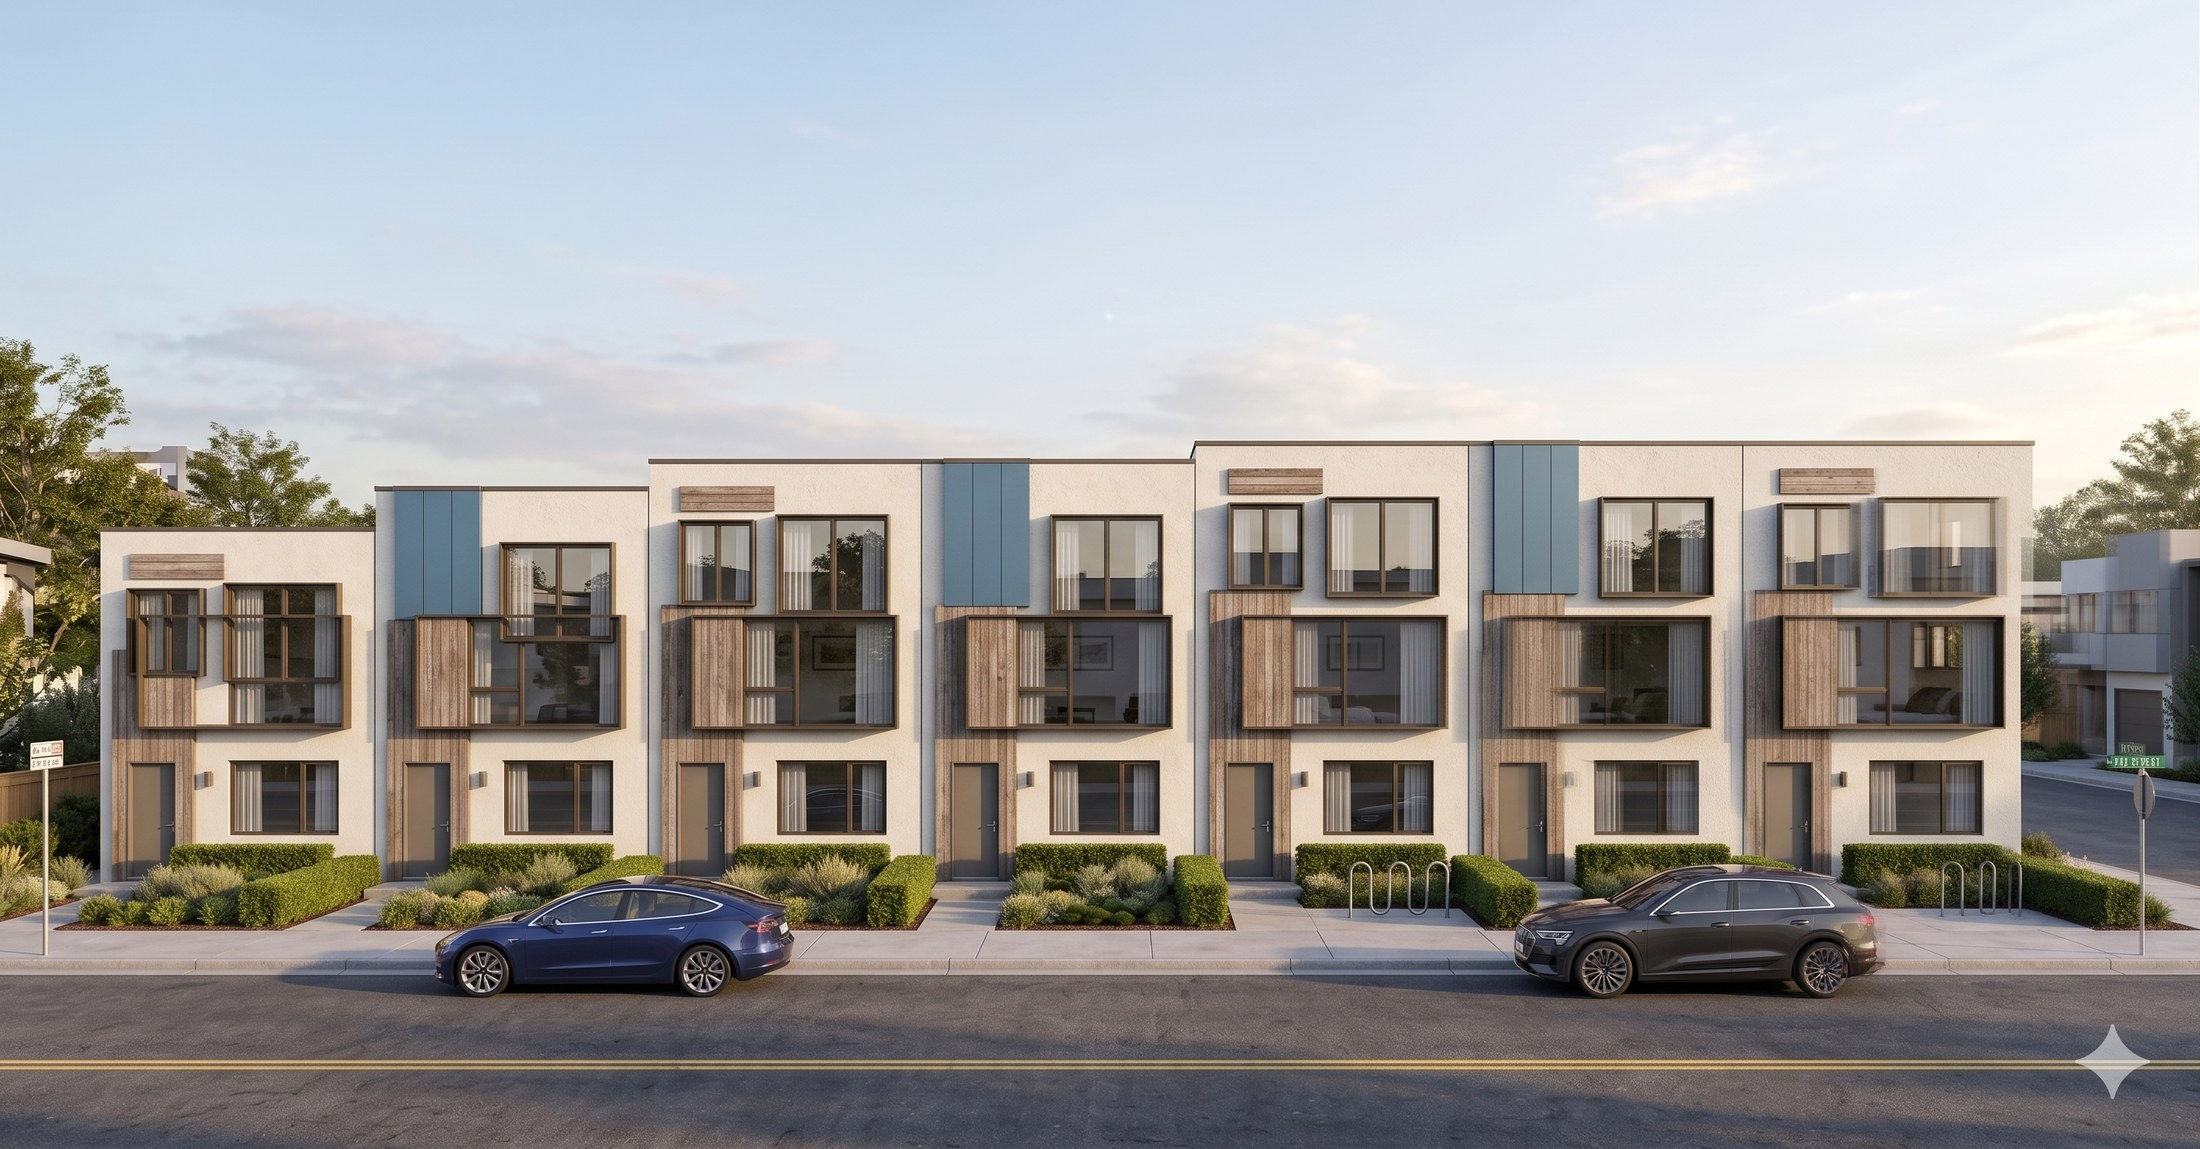
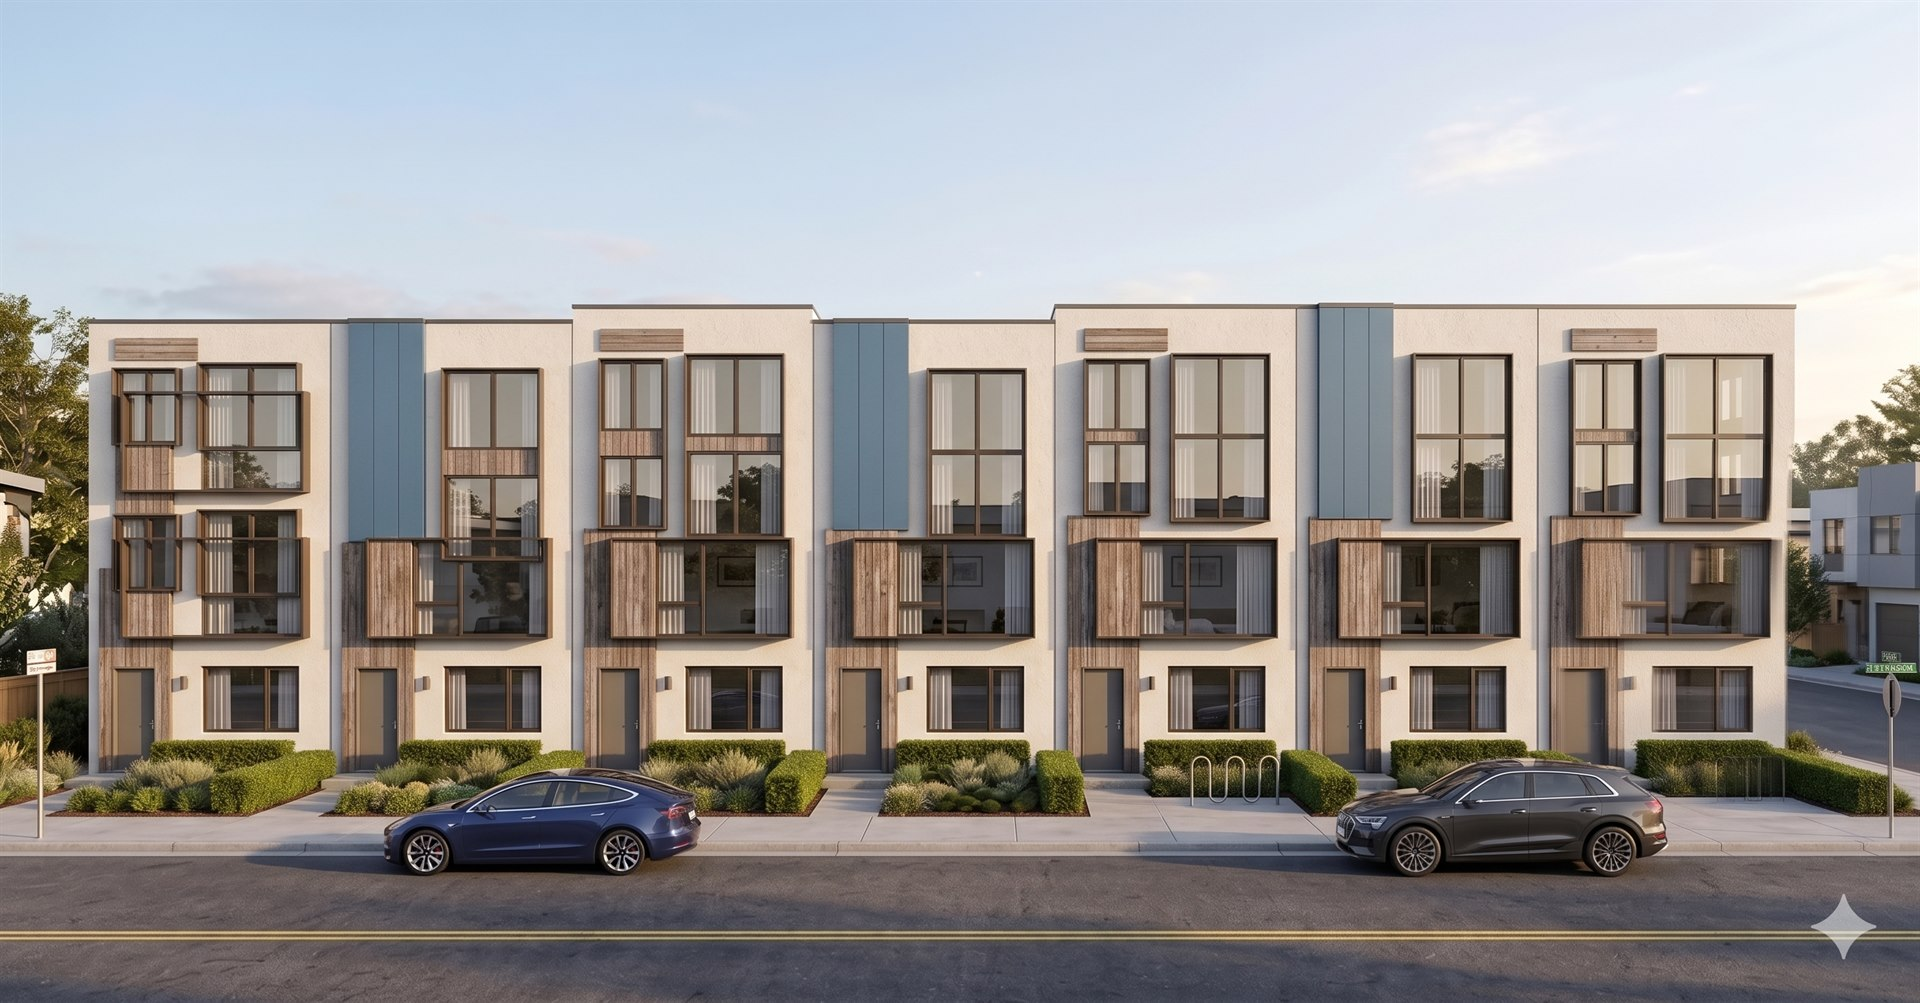
New daytime cover rendering; present as 10 detached homes throughout (ADUs as feature, not unit count)

diff --git a/index.html b/index.html
@@ -4,7 +4,7 @@
 <meta charset="utf-8" />
 <meta name="viewport" content="width=device-width, initial-scale=1.0" />
 <title>6540 N Shoup Avenue, West Hills — Offering Memorandum</title>
-<meta name="description" content="6540 N Shoup Avenue, West Hills. SB 1123 ministerial small-lot subdivision — 10 detached three-story homes plus 5 attached ADUs (15 units) on 20,909 SF. Architectural set in PZA review. $2,000,000. LAAA Team at Marcus & Millichap." />
+<meta name="description" content="6540 N Shoup Avenue, West Hills. SB 1123 ministerial small-lot subdivision — 10 detached three-story homes (five with attached ADUs) on 20,909 SF. Architectural set in PZA review. $2,000,000. LAAA Team at Marcus & Millichap." />
 <meta property="og:title" content="6540 N Shoup Avenue — SB 1123 10-Home Small-Lot Subdivision" />
 <meta property="og:description" content="10 detached homes + 5 ADUs on a 20,909 SF West Hills parcel. SB 1123 ministerial pathway, plans in PZA review. $2.0M. Marketed by Glen Scher and Filip Niculete." />
 <meta property="og:image" content="images/cover.jpg" />
@@ -196,7 +196,7 @@
                   color: rgba(255,255,255,0.92); background: var(--ink);">
         <div style="display:flex; flex-direction:column; gap: 10px;">
           <span>Offering Memorandum / 2026</span>
-          <span style="font-size: 18px; letter-spacing: 0.22em; color: rgba(197,162,88,0.95);">SB 1123 Small-Lot Subdivision · 10 Homes + 5 ADUs</span>
+          <span style="font-size: 18px; letter-spacing: 0.22em; color: rgba(197,162,88,0.95);">SB 1123 Small-Lot Subdivision · 10 Detached Homes</span>
         </div>
         <span>Confidential</span>
       </div>
@@ -223,7 +223,7 @@
           </div>
           <div>
             <div style="font-family: var(--mono); font-size: 16px; letter-spacing: 0.2em; text-transform: uppercase; color: #9bb0cc; margin-bottom: 8px;">Status</div>
-            <div style="font-family: var(--serif); font-weight: 300; font-size: 24px; line-height: 1.2; color: var(--paper);">10 Homes + 5 ADUs · RA-1-RIO · Plans in PZA Review</div>
+            <div style="font-family: var(--serif); font-weight: 300; font-size: 24px; line-height: 1.2; color: var(--paper);">10 Detached Homes · RA-1-RIO · Plans in PZA Review</div>
           </div>
           <div>
             <div style="font-family: var(--mono); font-size: 16px; letter-spacing: 0.2em; text-transform: uppercase; color: #9bb0cc; margin-bottom: 8px;">List Price</div>
@@ -240,7 +240,7 @@
       <div class="corner-mark"><span class="dot"></span><span>Section 01 · Executive Summary</span></div>
       <div style="margin-top: 60px; max-width: 1400px;">
         <h2 class="h-title">The offering at a glance.</h2>
-        <p class="h-lead" style="margin-top:32px;">A 20,909 SF West Hills development parcel with a complete architectural set submitted under California's SB 1123 ministerial subdivision pathway — 10 detached three-story homes plus five attached ADUs, 15 homes in total.</p>
+        <p class="h-lead" style="margin-top:32px;">A 20,909 SF West Hills development parcel with a complete architectural set submitted under California's SB 1123 ministerial subdivision pathway — a 10-home detached small-lot subdivision, five homes with attached ADUs.</p>
       </div>
       <div style="flex:1;"></div>
       <div class="kpi-row">
@@ -250,9 +250,9 @@
           <div class="sub">$96 per land square foot</div>
         </div>
         <div class="kpi">
-          <div class="label">Total Homes</div>
-          <div class="value">15</div>
-          <div class="sub">10 detached homes + 5 attached ADUs</div>
+          <div class="label">Detached Homes</div>
+          <div class="value">10</div>
+          <div class="sub">3-story · 5 with attached ADUs</div>
         </div>
         <div class="kpi">
           <div class="label">Site Size</div>
@@ -326,8 +326,8 @@
         </div>
         <div class="hl">
           <div class="num">03</div>
-          <h3 class="h">15 Units of Sellable Product</h3>
-          <p class="p">10 detached three-story homes (1,249–2,113 SF, avg 1,660 SF), each with attached two-car garage and rooftop deck; five parcels add attached ADUs for income or sale-included premium.</p>
+          <h3 class="h">A 10-Home For-Sale Subdivision</h3>
+          <p class="p">10 detached three-story homes (1,249–2,113 SF, avg 1,660 SF), each with attached two-car garage and rooftop deck; five include attached ADUs for income or sale-included premium.</p>
         </div>
         <div class="hl">
           <div class="num">04</div>
@@ -406,9 +406,9 @@
           <div class="small" style="color:#8497b0; margin-top: 8px;">Ministerial · CEQA exempt · operative Jul 2025</div>
         </div>
         <div>
-          <div class="micro" style="margin-bottom: 14px; color:#9bb0cc;">Total Homes</div>
-          <div style="font-family: var(--serif); font-weight: 300; font-size: 90px; line-height: 1; color: var(--paper); letter-spacing: -0.02em;">15</div>
-          <div class="small" style="color:#8497b0; margin-top: 8px;">10 detached homes + 5 attached ADUs</div>
+          <div class="micro" style="margin-bottom: 14px; color:#9bb0cc;">Detached Homes</div>
+          <div style="font-family: var(--serif); font-weight: 300; font-size: 90px; line-height: 1; color: var(--paper); letter-spacing: -0.02em;">10</div>
+          <div class="small" style="color:#8497b0; margin-top: 8px;">3-story · 5 with attached ADUs</div>
         </div>
         <div>
           <div class="micro" style="margin-bottom: 14px; color:#9bb0cc;">Habitable Area</div>
